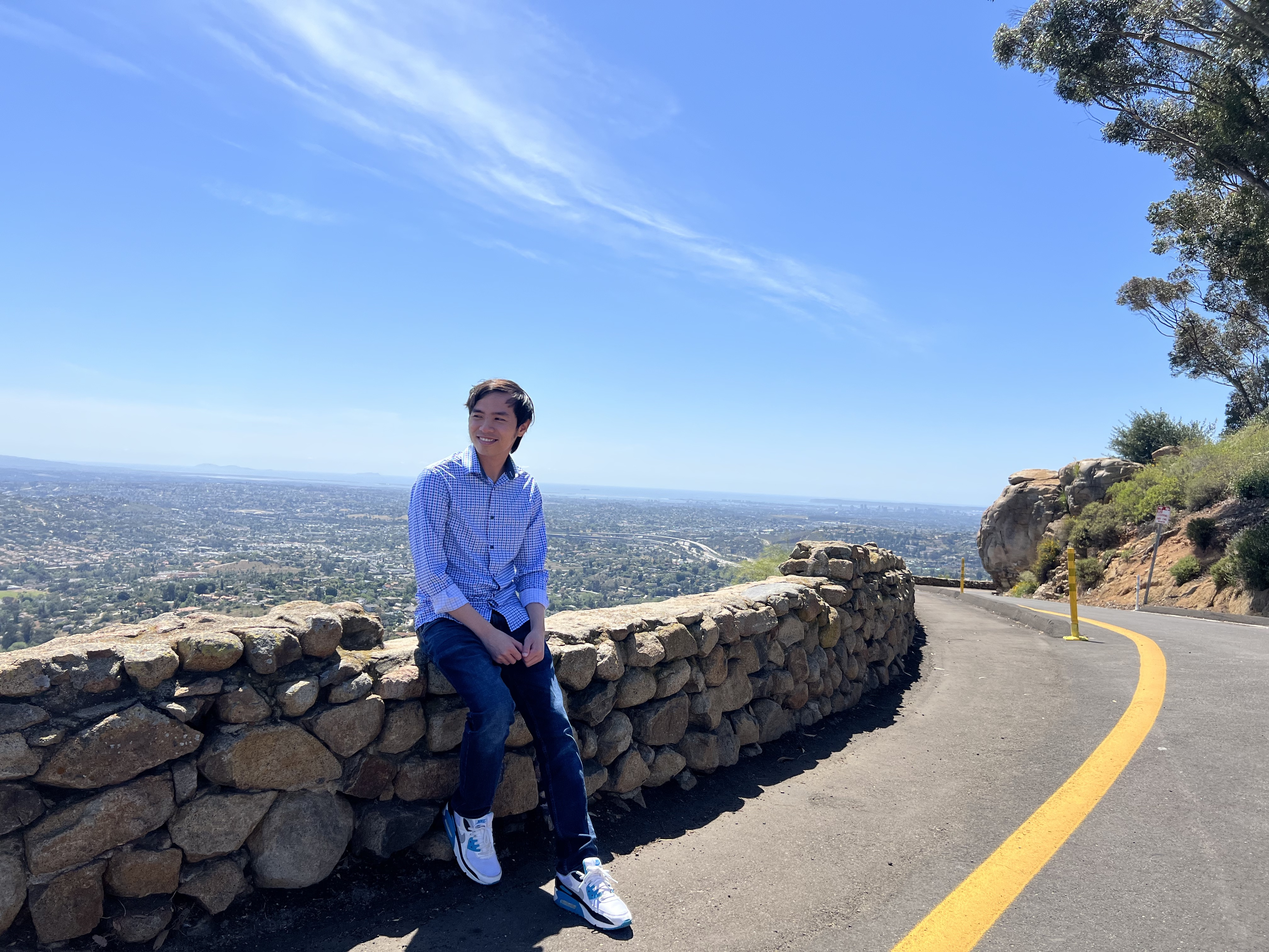
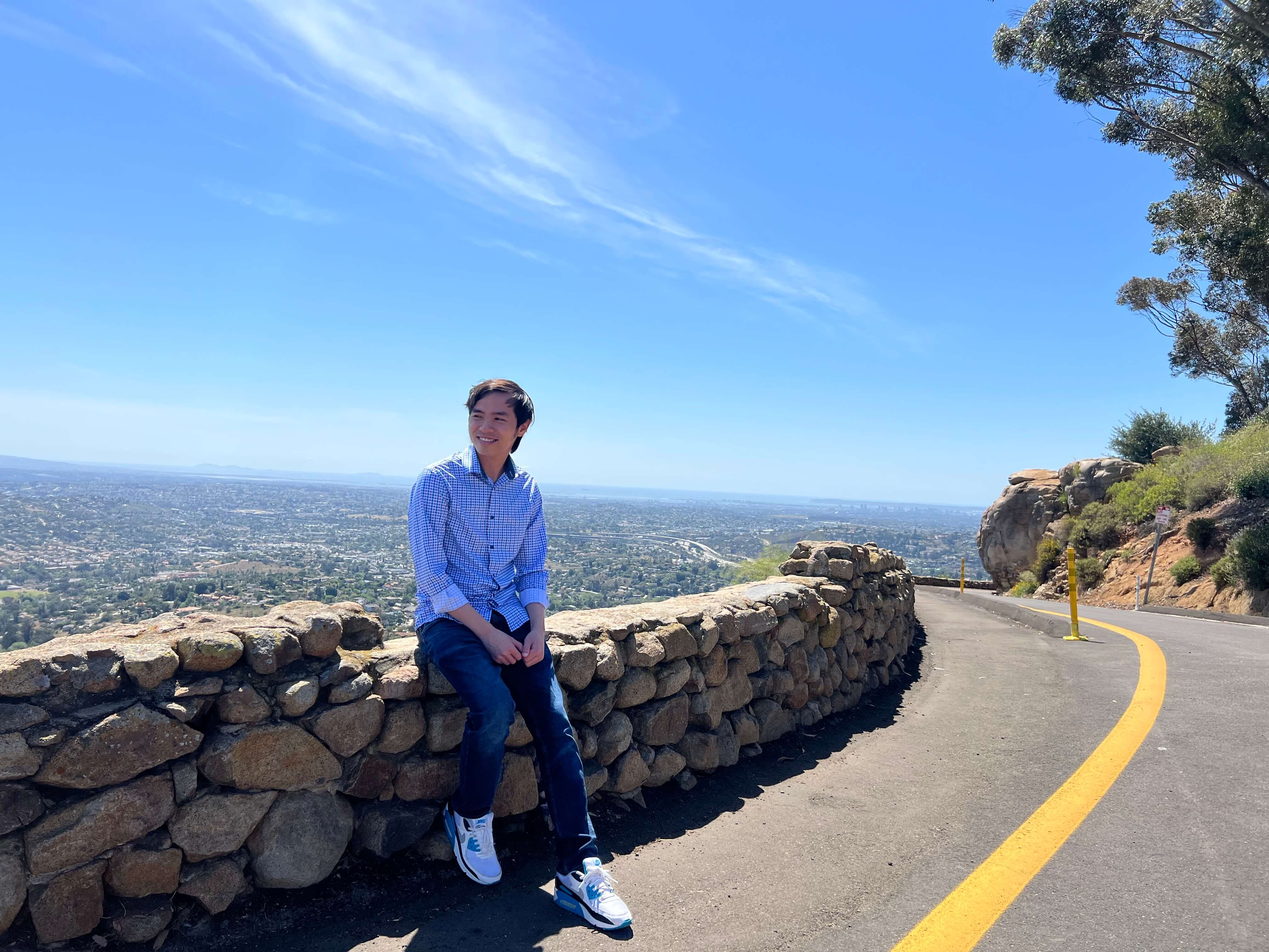
optimize images

diff --git a/index.html b/index.html
@@ -73,7 +73,6 @@
 						to learn and develop my skills. 
 					 </p>
 				</div>
-				<a href="#two" class="button style2 down anchored">Next</a>
 			</section>
 
 		<!-- Two -->

diff --git a/assets/css/main.css b/assets/css/main.css
@@ -2122,7 +2122,7 @@ input, select, textarea {
 					position: relative;
 					bottom: -2em;
 				}
-
+				
 				.contain.box.style2 
 
 		body.is-touch .main {
